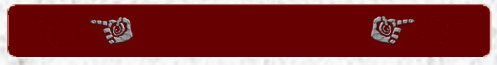
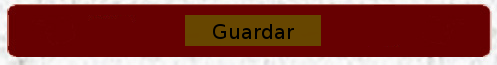
Se ha cambiado el footer de la vista de juego. Se ha quitado guardar del menú principal y se ha puesto en su lugar seleccionar representación

Changed region(s): [[0.3622, 0.2154, 0.664, 0.7077], [0.7243, 0.2462, 0.8451, 0.6769], [0.1811, 0.2462, 0.2716, 0.6769]]

diff --git a/www/index.html b/www/index.html
@@ -202,7 +202,8 @@
                       position:absolute;
                       font-size:1.5rem;
                       left: 70%; 
-                      top: 10%;">Movidas</a>
+                      top: 10%;
+                      color:black;">Movidas</a>
                       
             <a class="tablero-sprite" id="juego-timer"
                style="display:block; 
@@ -213,7 +214,8 @@
                       font-size:1.5rem;
                       left: 10%; 
                       top: 50%;
-                      margin-top:1%">
+                      margin-top:1%;
+                      color:black;">
                         <span id="juego-minutos">00</span>
                           :
                         <span id="juego-segundos">00</span>
@@ -227,7 +229,8 @@
                       top: 50%;
                       text-align:center;
                       font-size:1.5rem;
-                      margin-top:1%;">0</a>
+                      margin-top:1%;
+                      color:black">0</a>
              
         </div>
         
@@ -300,8 +303,10 @@
             <img src="img/footer.jpg" alt="icon"
                  width="100%" height="100%"
                  style="position:absolute; top: 0; left: 0;" />
-            <a style="display:block; width:30%; height:100%; position:absolute; left: 0; top: 0;"
-               onclick="mostrarTipoRepresentacion();tomarElTiempoResetear();resetearContadorDeMovidas();"></a>     
+            
+            <a style="display:block; width:30%; height:100%; position:absolute; left: 30%; top: 0;"
+               onclick="guardarEstadoAplicacion();"></a>     
+               
         </div>
         
         <!--FIN DE TABLERO-->
@@ -318,7 +323,7 @@
         <a id="vista-menu-emergente-presentacion" onclick="verPortada()">Presentación</a>
         <a id="vista-menu-emergente-instrucciones" onclick="verInstrucciones()">Instrucciones</a>
         
-        <a id="vista-menu-emergente-guardar" onclick="guardarEstadoAplicacion()">Guardar</a>
+        <a id="vista-menu-emergente-tipo" onclick="mostrarTipoRepresentacion();tomarElTiempoResetear();resetearContadorDeMovidas();">Seleccionar Representación</a>
         <a id="vista-menu-emergente-borrar-datos" onclick="borrarEstadoAplicacion()">Borrar Datos</a>
         <a id="vista-menu-emergente-cargar-partida" onclick="cargarUltimoJuegoGuardado()">Cargar Última Partida</a>
         <a id="vista-menu-emergente-salir" onclick="verPantallaSalir()">Salir</a>
